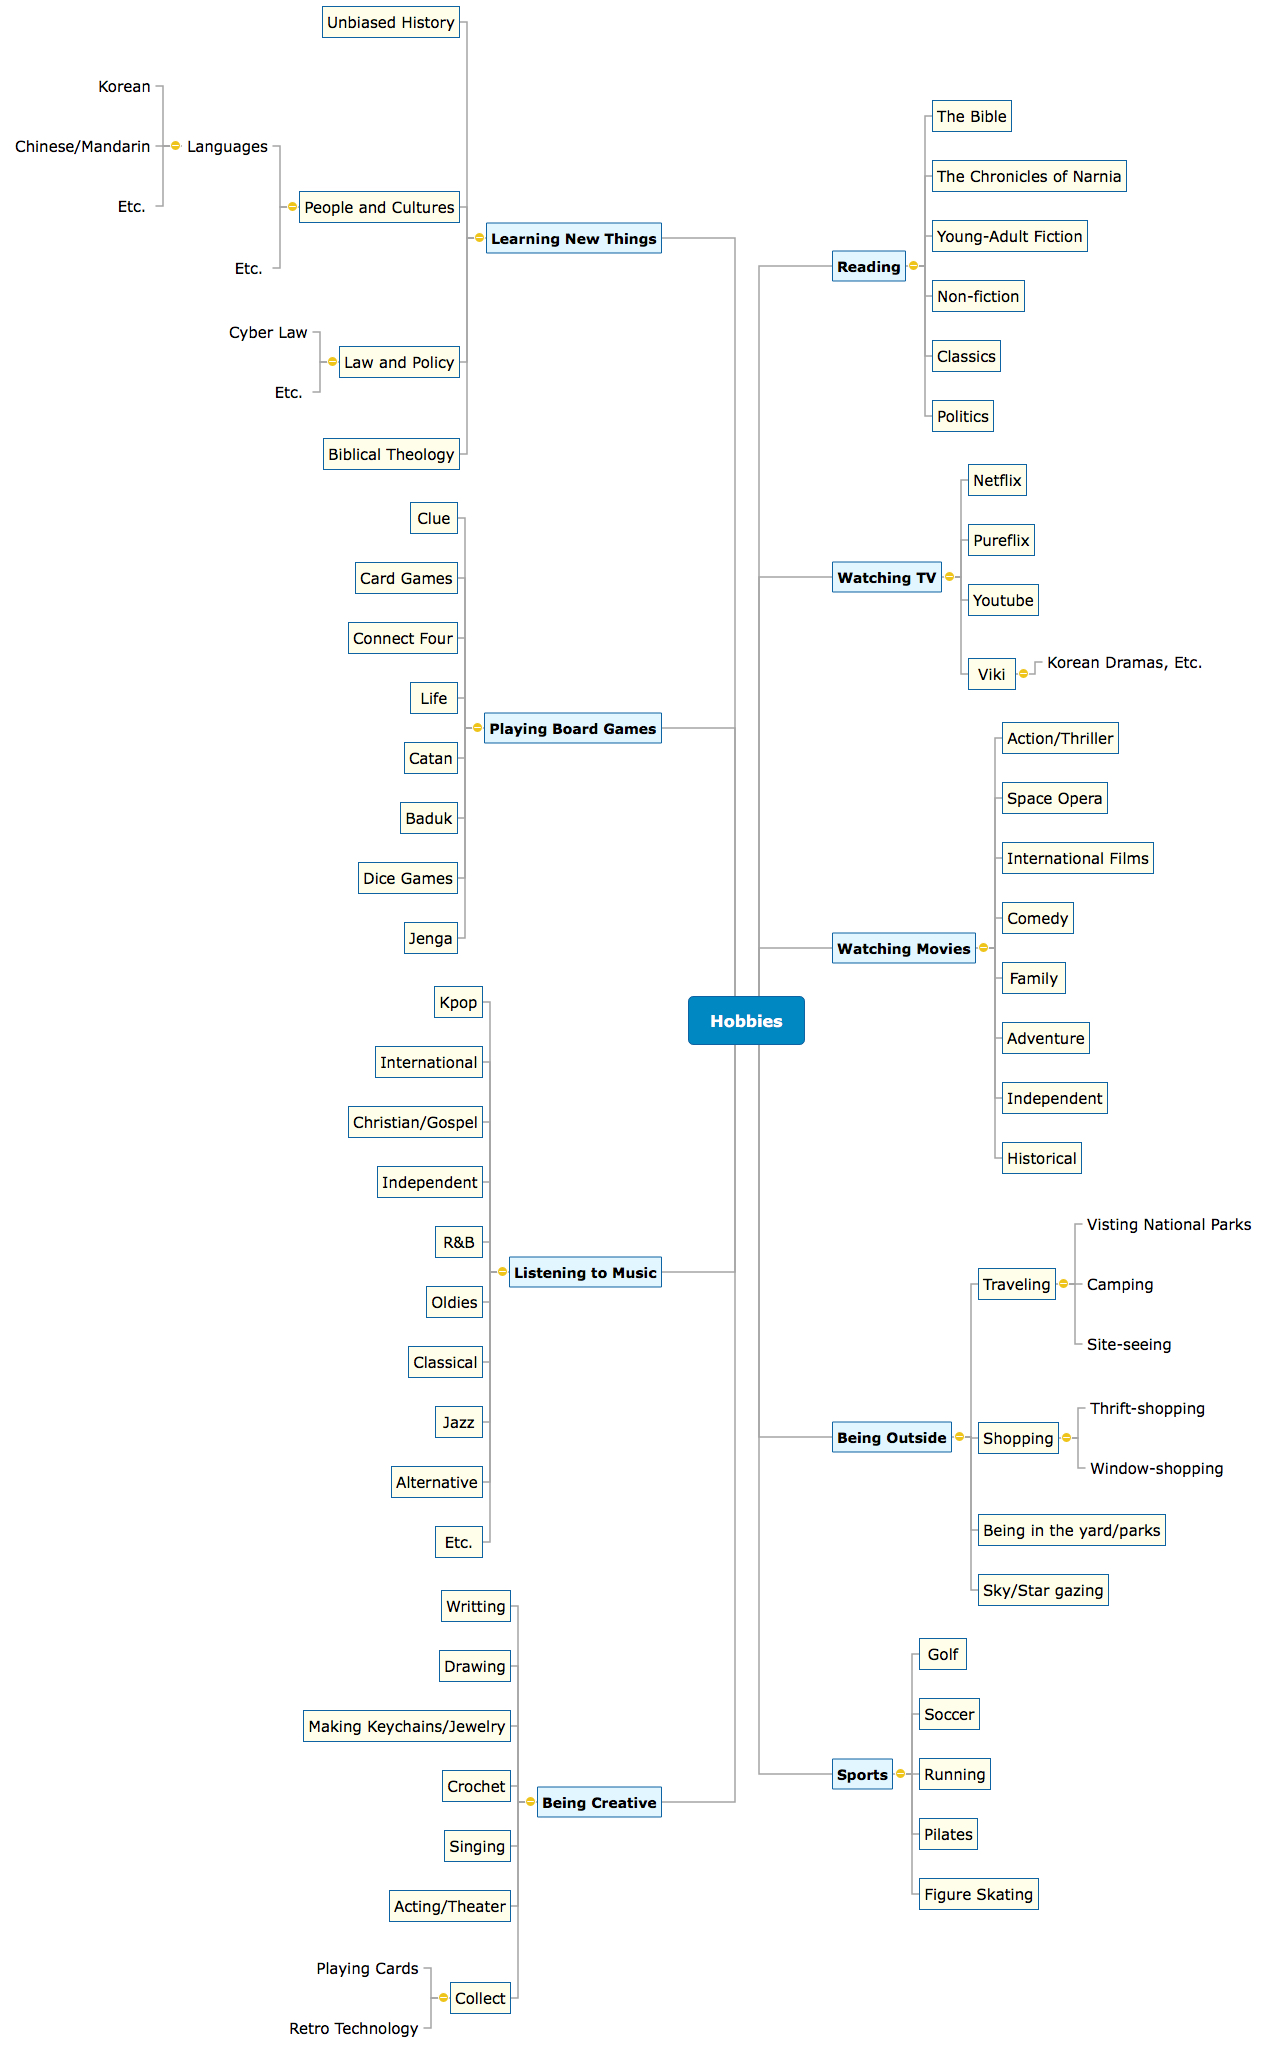
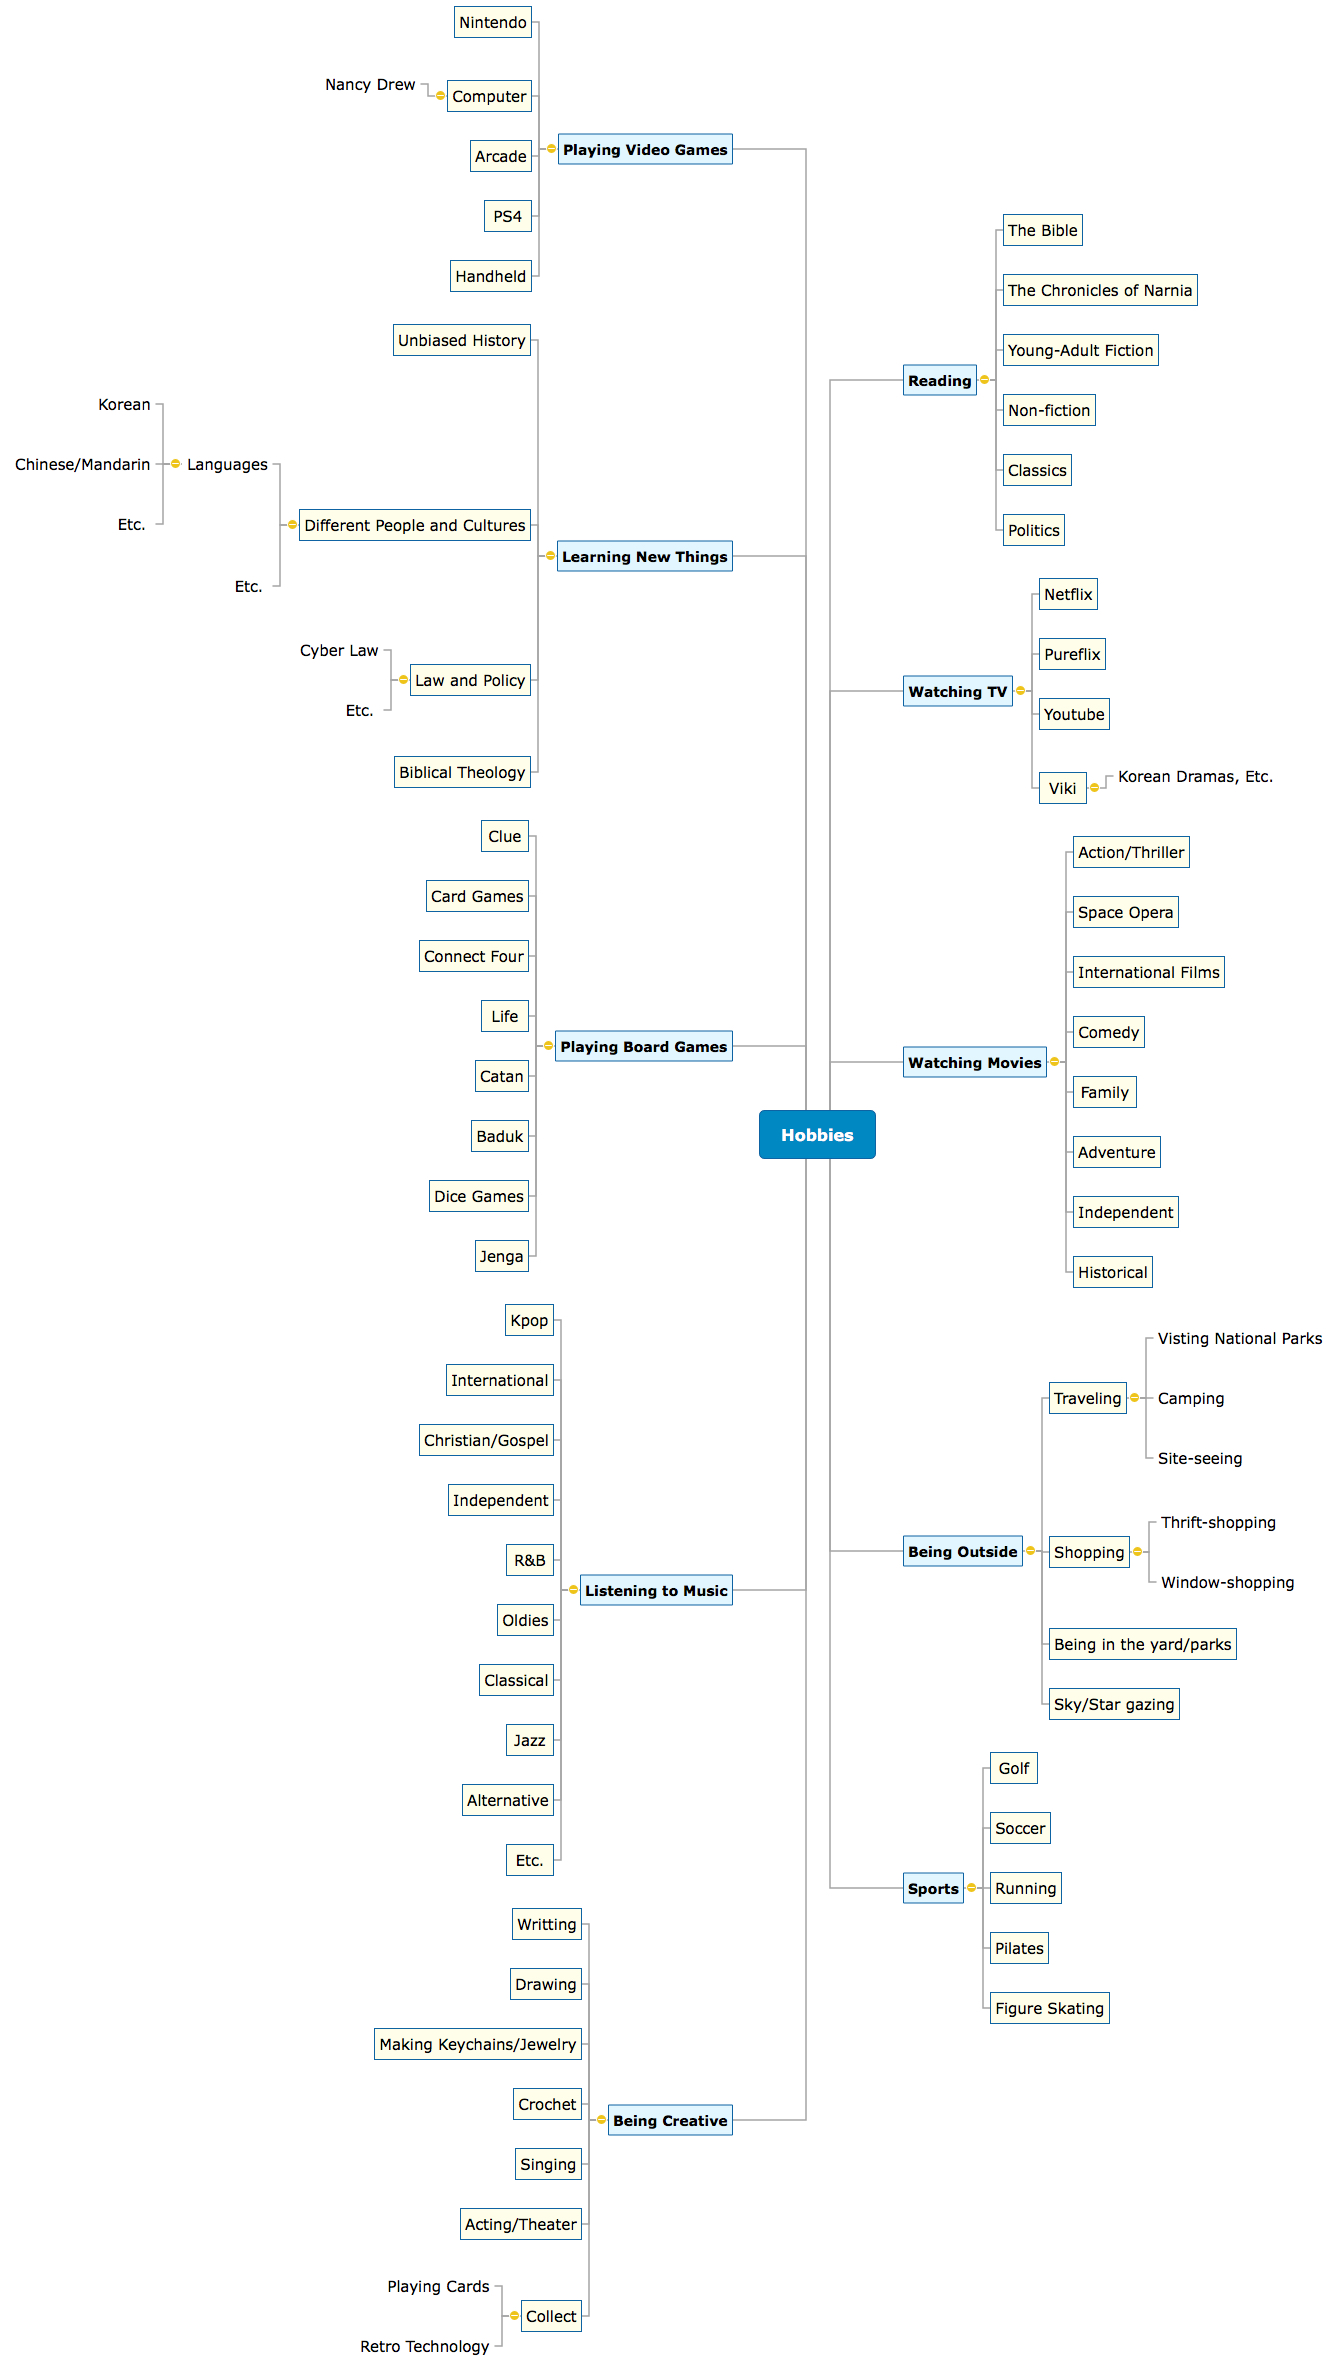
finished hobbies  page

diff --git a/hobbies.html b/hobbies.html
@@ -2,7 +2,7 @@
 <html lang="en" dir="ltr">
   <head>
     <meta charset="utf-8">
-    <title>Adrianna Williams</title>
+    <title>Adrianna Williams: Hobbies</title>
   </head>
   <body>
     <header>
@@ -18,7 +18,7 @@
     </nav>
     <section>
       <h2>Hobbies:</h2>
-        <p>For fun, I often like to be at leisure with my family and our family dog in our home, or out in the town. Occationally my family and I go to the movies on the weekend, or during the week I participate in school extra curriculars with my friends and classmates, or I pursue my own individual interests or entreprenurial ventures. Below you'll a list of select hobbies of mine:</p>
+        <p>For fun, I often like to be at leisure with my family and our family Miniature Poodle in our home, or out in the town. Occationally my family and I go to the movies on the weekend, or during the week I participate in school extra curriculars with my friends and classmates, or I pursue my own individual interests or entreprenurial ventures. Below you'll a list of select hobbies of mine:</p>
       <ul>
         <li>Being Creative</li>
         <li>Listening to Music</li>
@@ -26,6 +26,7 @@
         <li>Sports</li>
         <li>Watching TV</li>
         <li>Being Outside</li>
+        <li>Playing video Games</li>
         <li>Playing Board Games</li>
         <li>Watching Movies</li>
         <li>Learning New Things</li>

diff --git a/resume.html b/resume.html
@@ -2,7 +2,7 @@
 <html lang="en" dir="ltr">
   <head>
     <meta charset="utf-8">
-    <title>Adrianna Williams</title>
+    <title>Adrianna Williams: Resume</title>
   </head>
   <body>
     <header>
@@ -51,12 +51,12 @@
     </section>
 
     <section>
-      <h2>Internship</h2>
+      <h2>Experience</h2>
       <p>Summer 2019</p>
       <ul>
         <li><b>Developed research lab website as an Undergraduate Research Assistant at the University of Kansas:</b></li>
         <ul>
-          <li>The website I developed was for the Humanoid Engineering Intelligent Robotics (HEIR) Lab in the school of engineering.</li>
+          <li>The website I developed was for the Humanoid Engineering Intelligent Robotics (HEIR) Lab in the KU School of Engineering.</li>
         </ul>
       </ul>
 

diff --git a/home.html b/home.html
@@ -2,7 +2,7 @@
 <html lang="en" dir="ltr">
   <head>
     <meta charset="utf-8">
-    <title>Adrianna Williams</title>
+    <title>Adrianna Williams: Home</title>
   </head>
   <body>
     <header>
